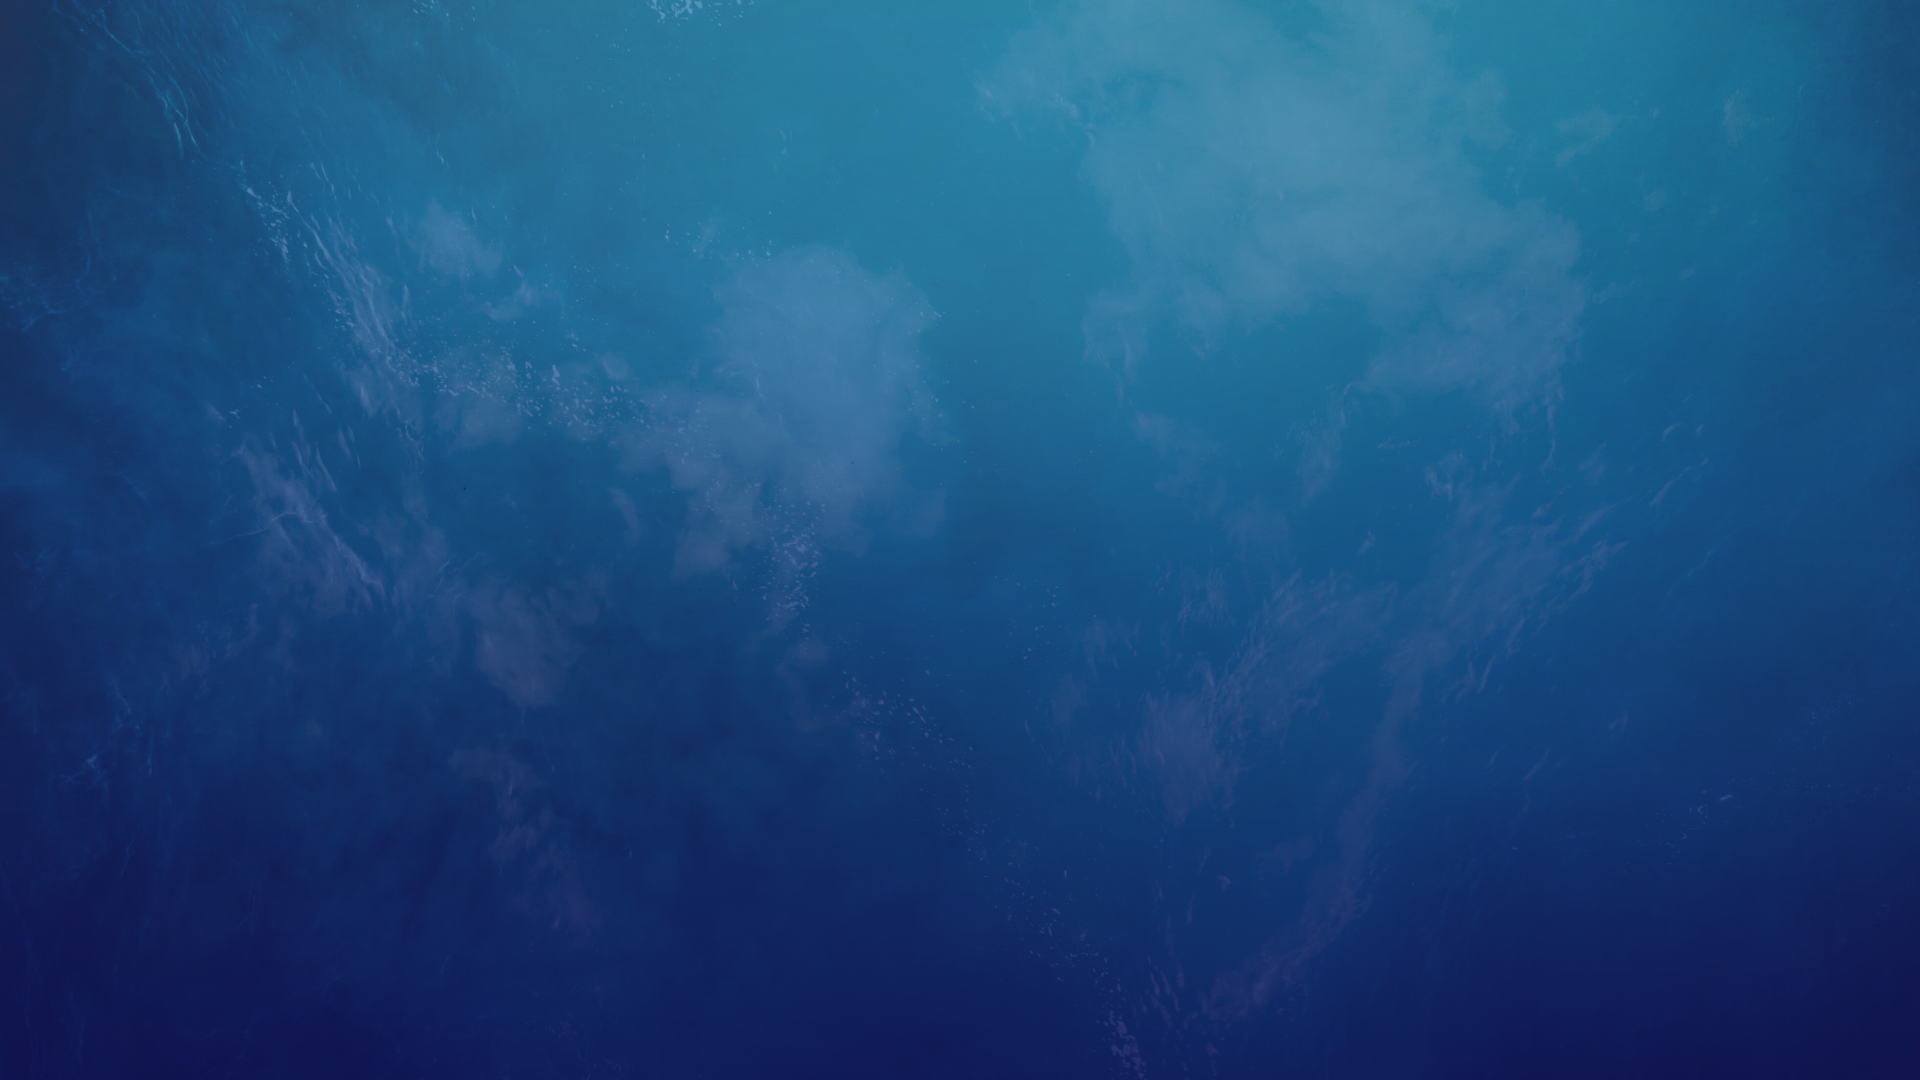
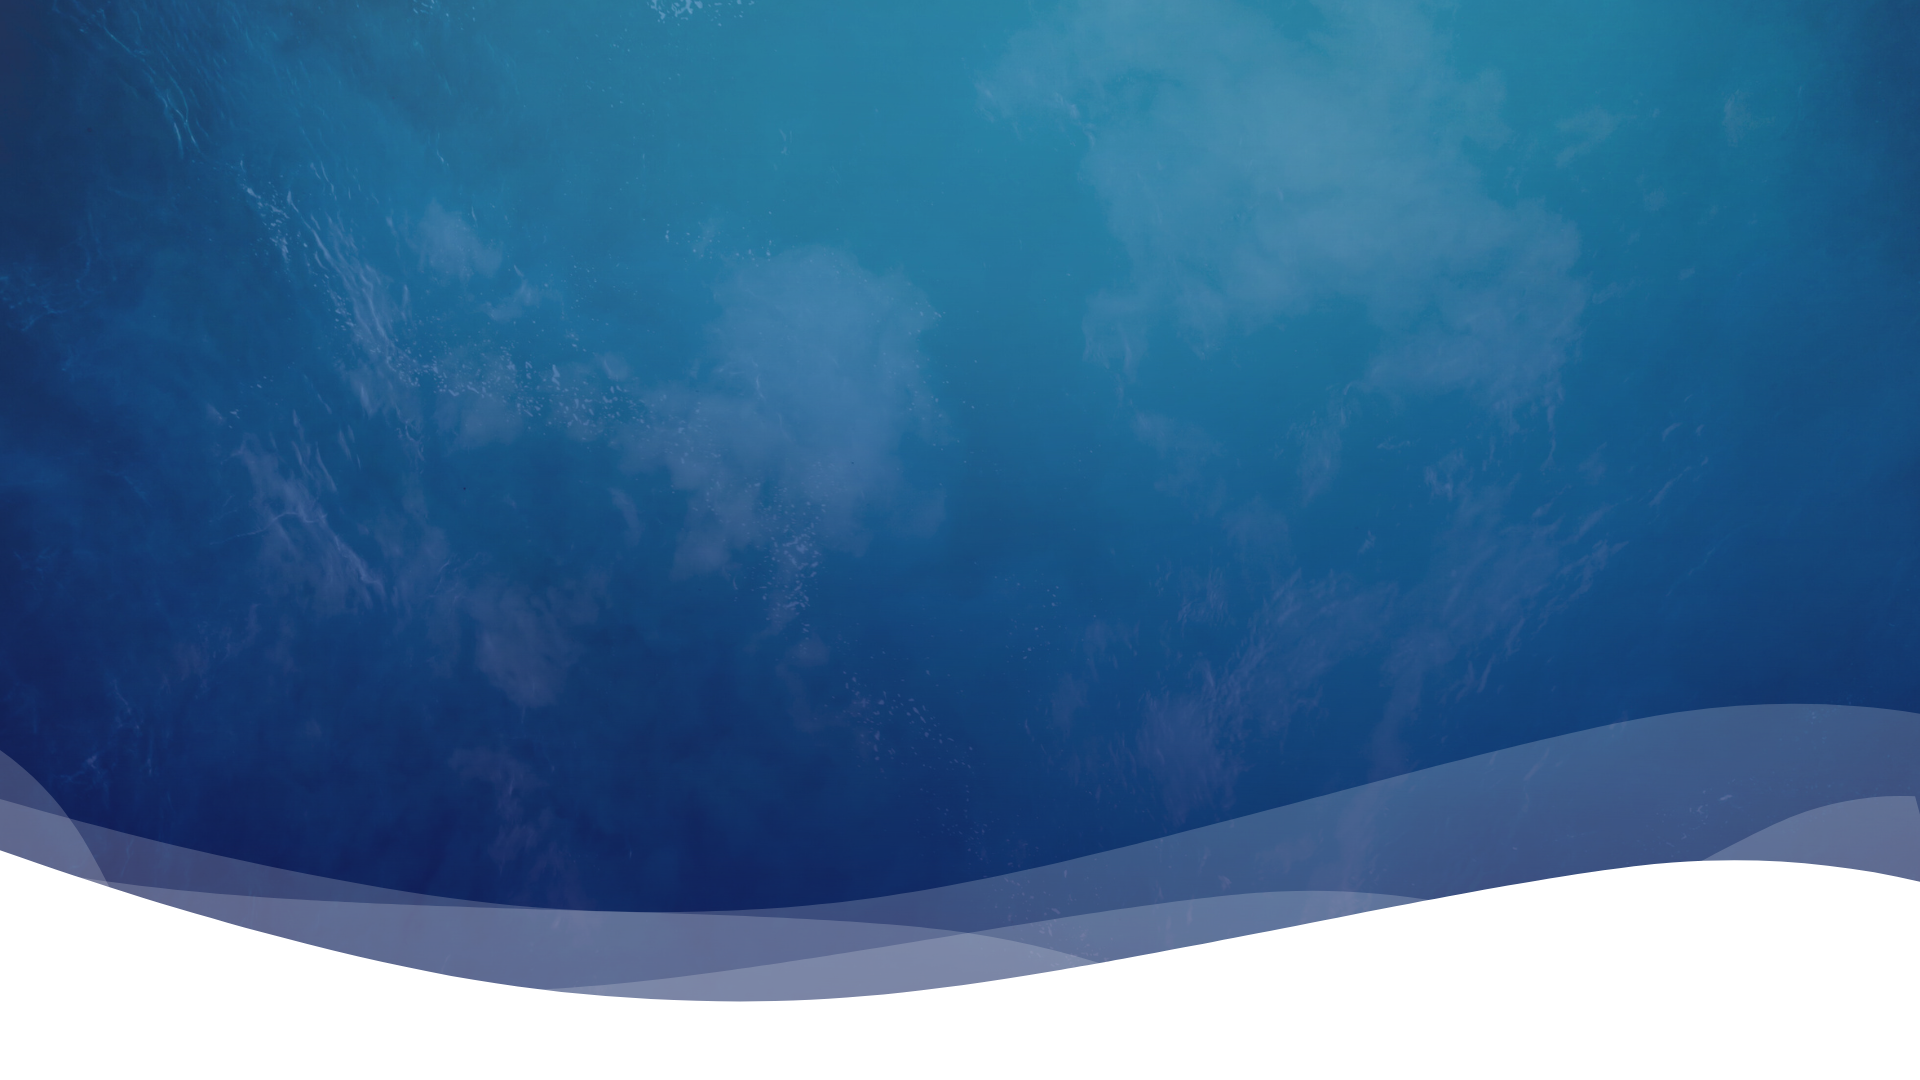
Mudando imagem de fundo do inicio do site

Changed region(s): [[0.0, 0.6417, 1.0, 1.0]]

diff --git a/src/css/style.css b/src/css/style.css
@@ -26,7 +26,7 @@
     background-repeat: no-repeat;
     background-size: cover;
     background-position: 50%;
-    filter: drop-shadow(0px 10px 8px #0f1550);
+    
 }
 
 .bg-image{
@@ -136,12 +136,10 @@ section.animal .flex{
 
 @keyframes nadando {
     0%{
-        right: 20px;
-        top: 0;
         left: 0;
+        top: 0;
     }
     100%{
-        right: 0;
         left: 10px;
         top: 10px;
     }
